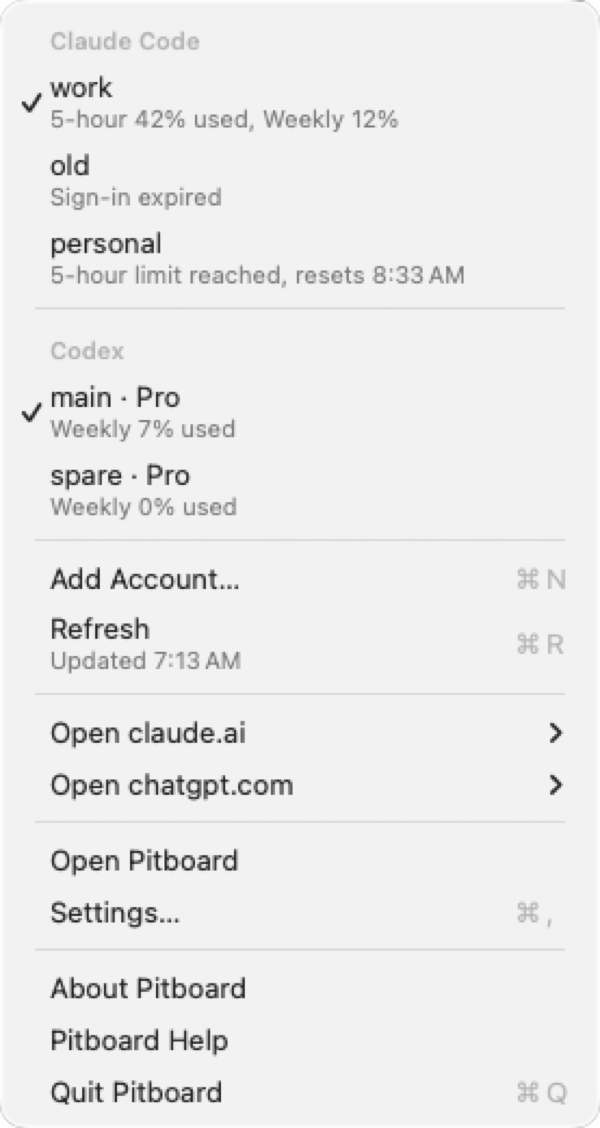
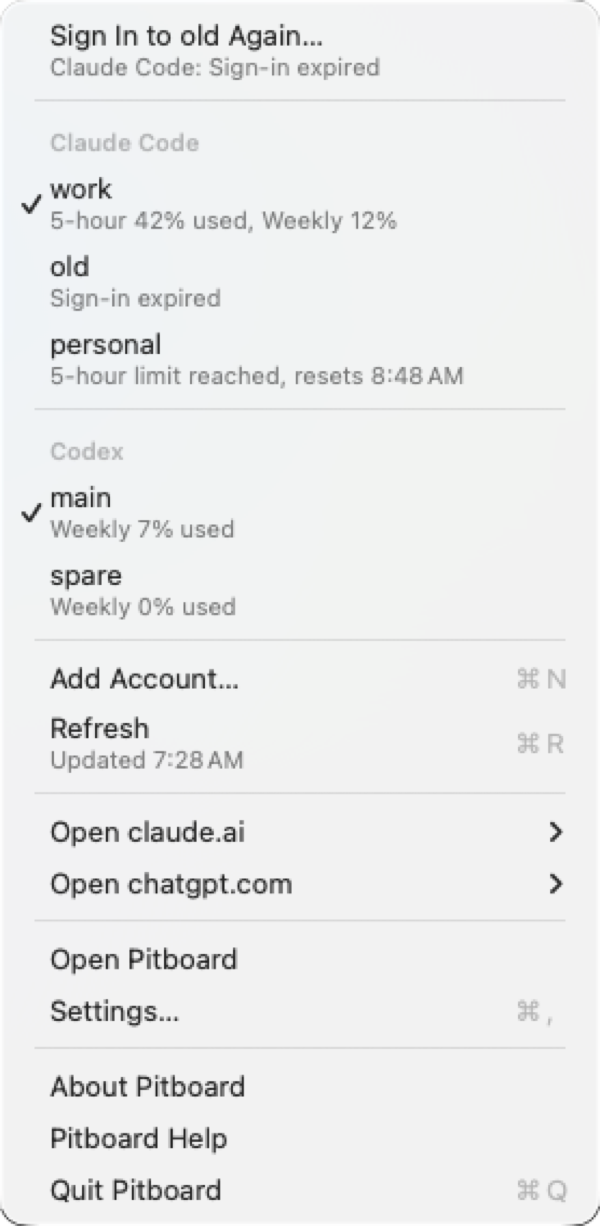
The docs and the README show the redone macOS menu and Accounts window
From CI's macos-app-pictures of run 40463304502 on main at 15758a42: macos-menu-accounts and
macos-window-accounts, resampled to 600 and 1640 pixels wide as docs-screenshots.sh writes them.

diff --git a/README.md b/README.md
@@ -7,9 +7,9 @@ Switch AI coding tools between your accounts.
 [![Licence](https://img.shields.io/badge/licence-Apache--2.0-blue.svg)](https://github.com/datlechin/pitboard/blob/main/LICENSE)
 
 <img src="https://raw.githubusercontent.com/datlechin/pitboard/main/.github/media/menu.png"
-  alt="The Pitboard menu, listing Claude Code and Codex accounts, with a check mark on each
-  one in use, the plan after each Codex account's name and, under each account's name, its
-  usage or that it needs signing in again"
+  alt="The Pitboard menu, offering first to sign in to an account again, then listing Claude
+  Code and Codex accounts with a check mark on each one in use and, under each account's name,
+  how much of its limits it has used or that its sign-in has expired"
   width="300">
 
 Pitboard switches Claude Code, OpenAI's Codex CLI and, on macOS, Claude Desktop between your
